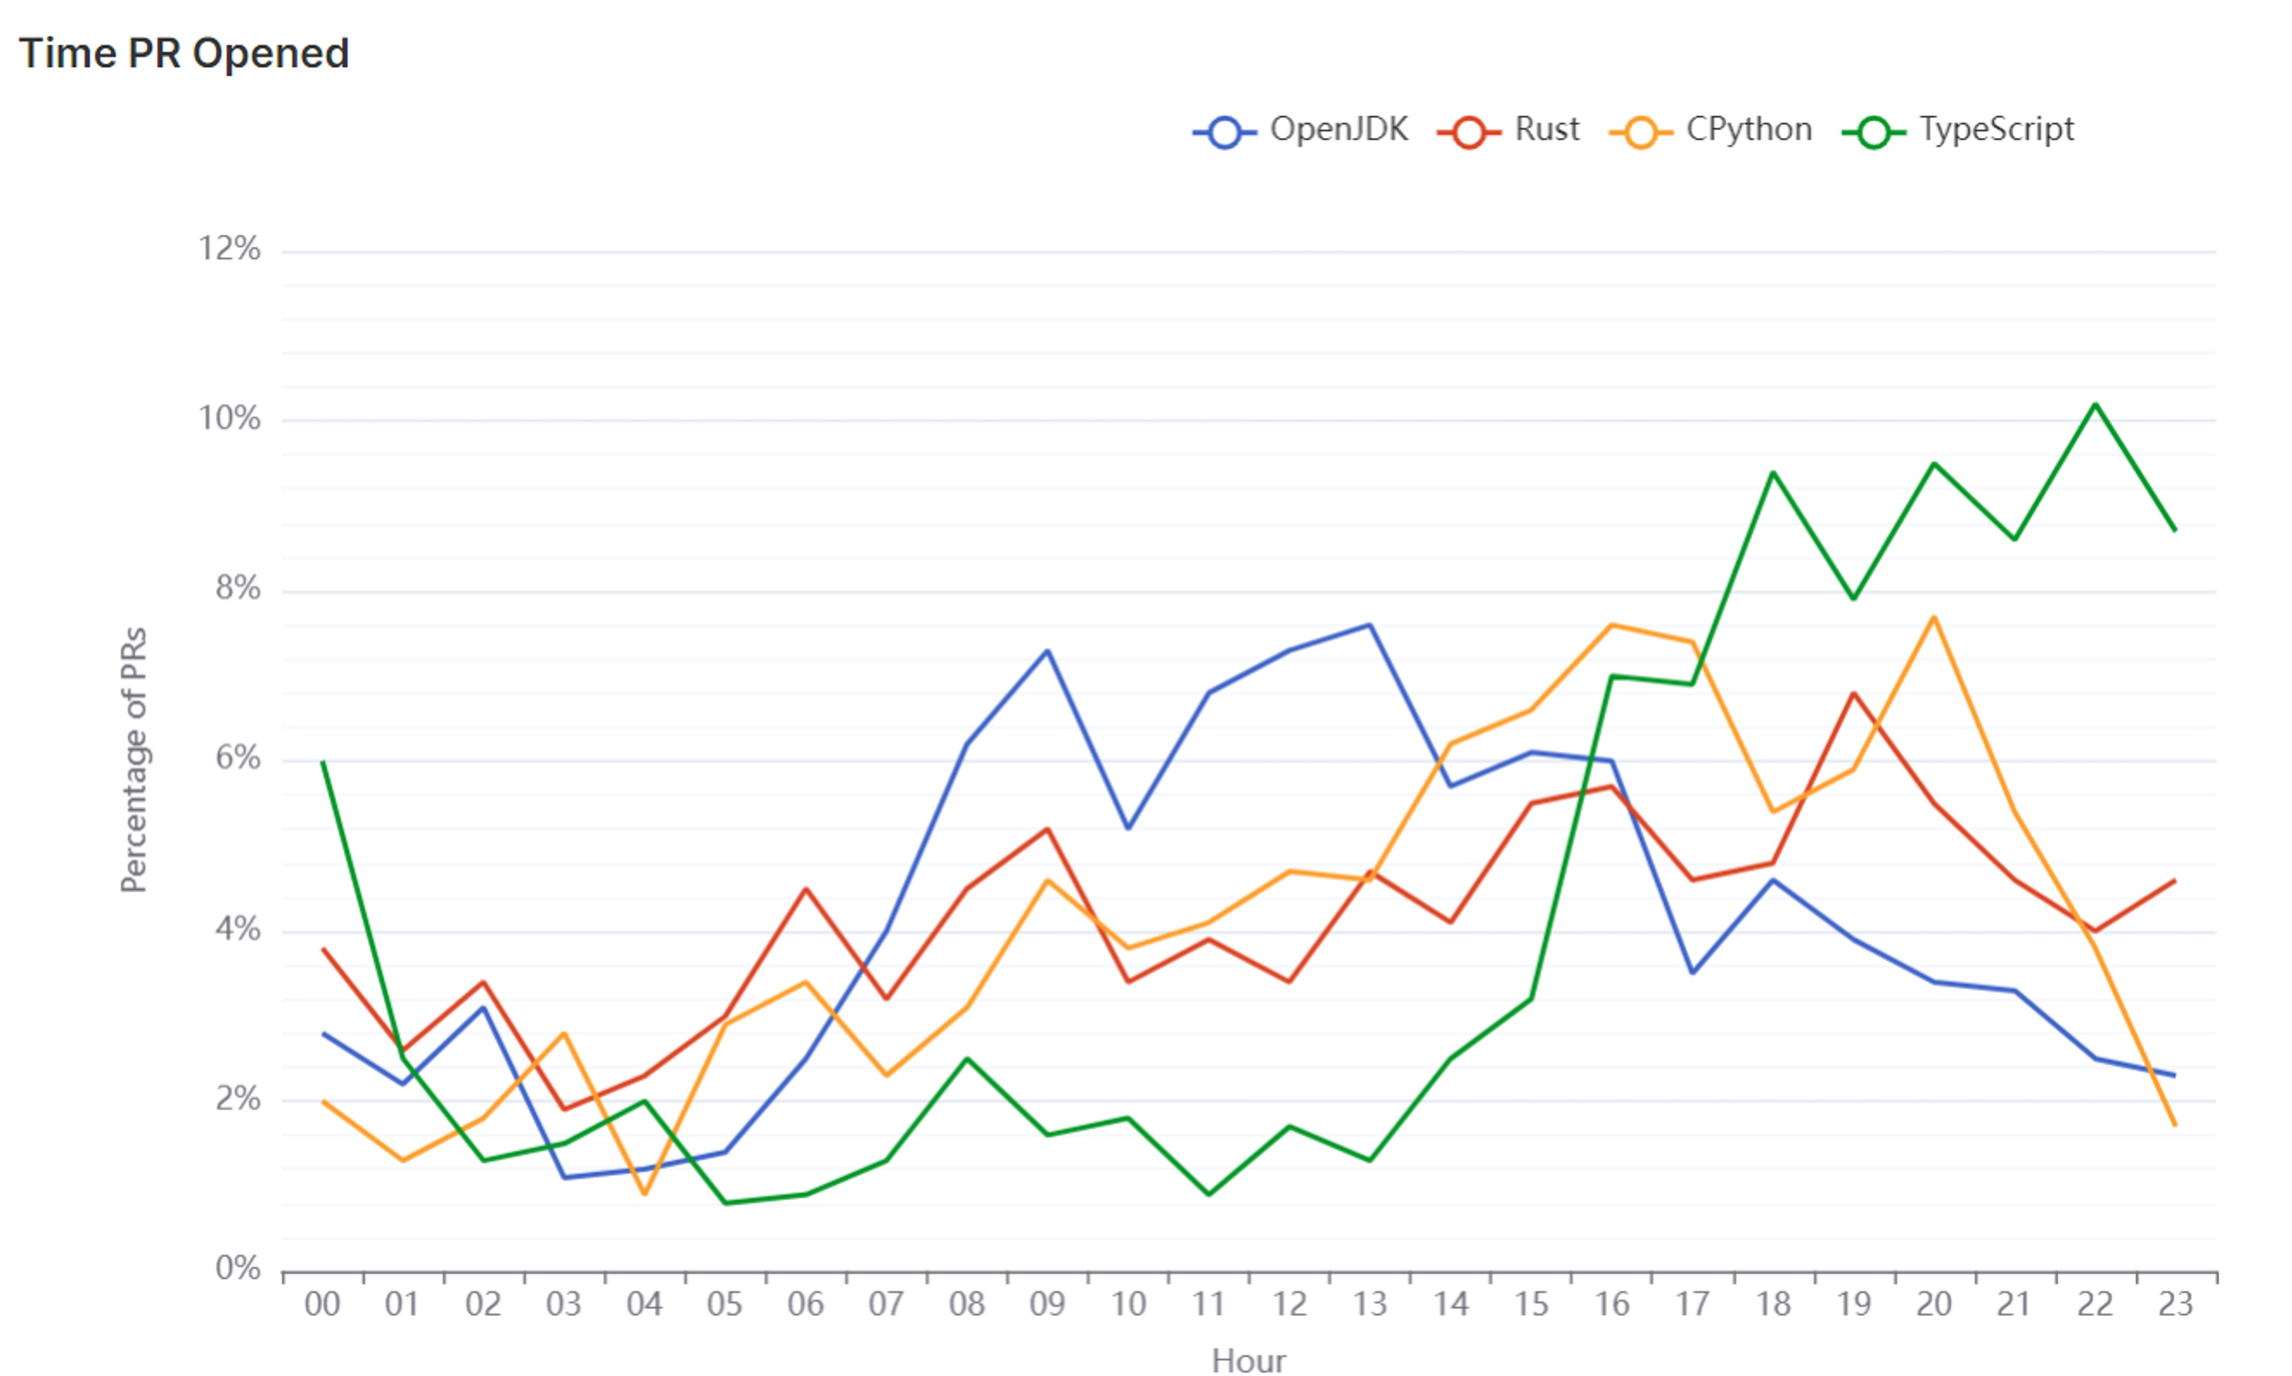
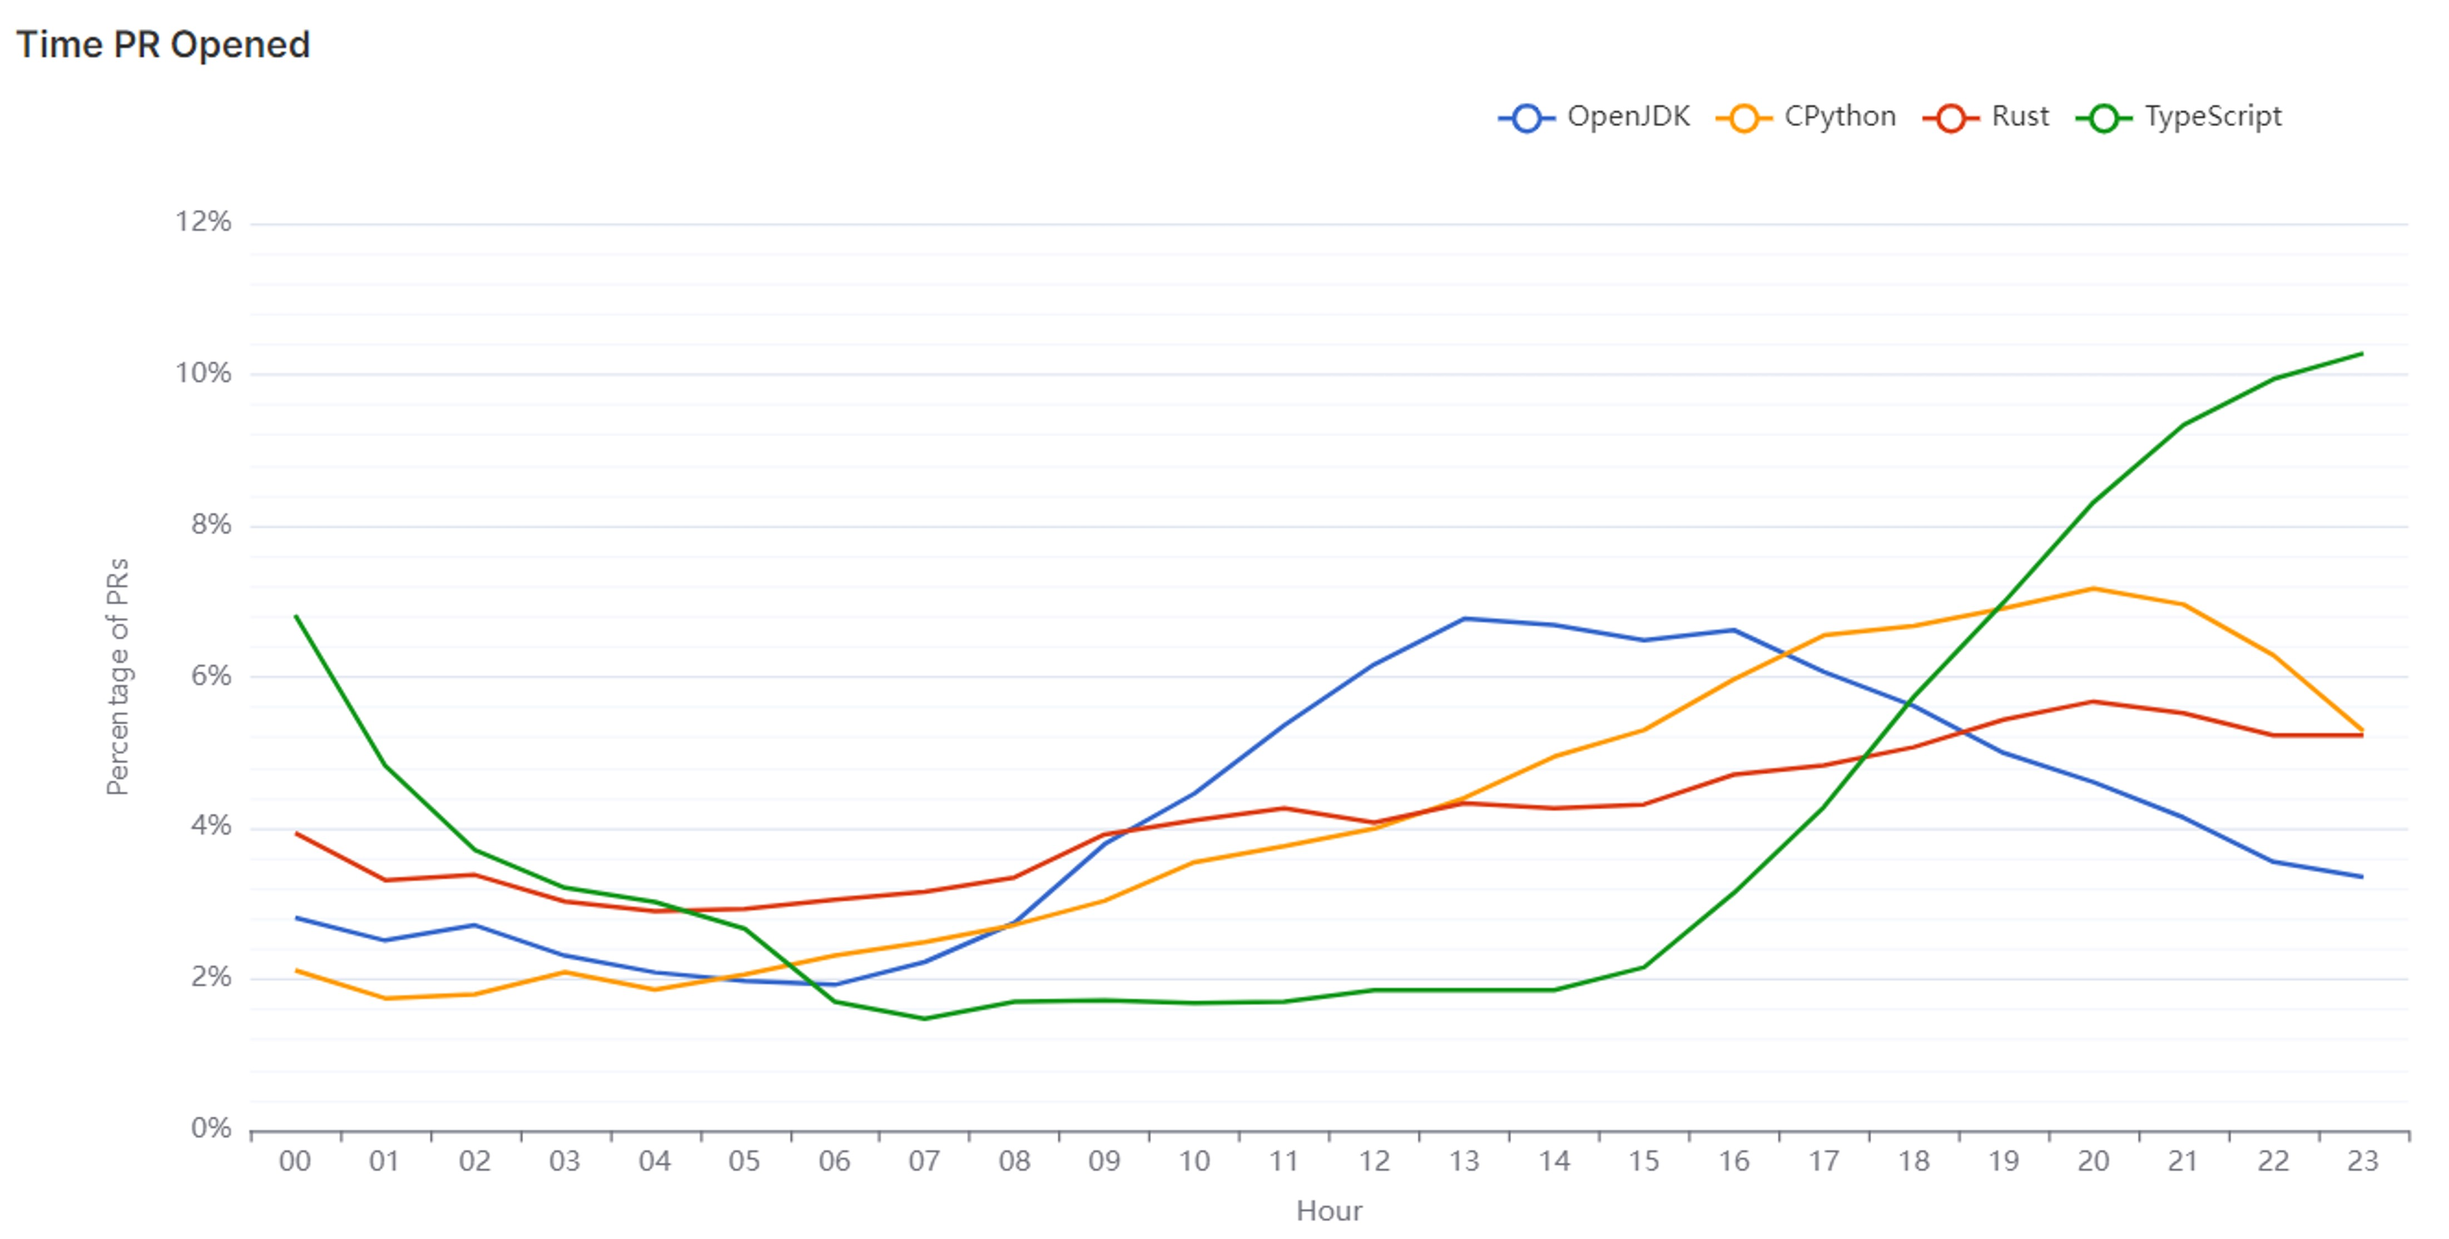
changes based on review feedback

diff --git a/_posts/2024-06-24-investigating-code-quality-from-pr-data.md b/_posts/2024-06-24-investigating-code-quality-from-pr-data.md
@@ -8,6 +8,8 @@ summary: Many of us are now using Generative AI to produce code, but what impact
 author: alaws
 ---
 
+When a developer wants to make changes to a code base, they raise a pull request (PR) which contains the proposed changes to the code and a written summary of the changes made. Other developers will then review this PR, leaving comments or suggestions, before ultimately deciding whether to approve the changes.
+
 PRs contain valuable data which can help us to get an insight into the process of writing code, and the teams involved. For example, we can use LLMs to analyse the tone of PR review comments - showing us the attitudes that reviewers have towards code.
 
 ![jpg]({{ site.github.url }}/alaws/assets/code-quality/code-quality-analysis-tone-per-day.jpg
@@ -23,23 +25,19 @@ Generative AI is everywhere, and software development is no exception. Tools suc
 
 The role of a software developer is multi-faceted, and writing code is just one part of the job. Therefore, if GenAI coding tools allow us to write code more quickly, but that code ultimately takes longer to review or is harder to maintain, is it really making us more productive?
 
-### So, what gives us an indication of code quality?
-
-When a developer wants to make changes to a code base, they raise a pull request (PR) which contains the proposed changes to the code and a written summary of the changes made. Other developers will then review this PR, leaving comments or suggestions, before ultimately deciding whether to approve the changes.
-
 PRs contain a huge amount of valuable data that can start to give us an idea of the code's quality. If the [CI/CD pipeline](https://about.gitlab.com/topics/ci-cd/) repeatedly fails, the code may not have been thoroughly tested or properly formatted. If a PR receives lots of review comments, it's likely that there are a number of changes that need to be made. Equally, if it takes weeks for a PR to be approved, it may be a reflection of the amount of work required to get the code to a point that the other developers are happy with it (either that, or the developers are just slow to submit their reviews...).
 
 ### Enter LLMs
 
-Although LLMs are able to write code, there are some common issues, or pain points, that are characteristic of AI-generated code. Things like not adhering to project conventions, not using functions that exist in other parts of the code base or writing code that is hard to read, are often clues that code may have been AI-generated, and are likely to be picked up in a review.
+LLMs (Large Language Models), are able to interpret and generate human language, and are even able to generate code.
 
-Therefore, what's written in comments is also a valuable source of information. For example, what do reviewers frequently suggest needs to be changed? Is a developer frustrated to make this suggestion (perhaps they've made the same suggestion several times already)? Are developers generally polite to their colleagues, but harsher on code that they suspect is AI-generated?
+Although LLMs can write code, there are some common issues, or pain points, that are characteristic of AI-generated code. Things like not adhering to project conventions or not using functions that exist in other parts of the code base, are often clues that code may have been AI-generated, and are likely to be picked up in a review.
 
-These are all questions we can begin to answer with the help of LLMs (Large Language Models), which are able to interpret and generate human language. Therefore, we can pass review comments, or even pieces of code, to an LLM and use them to start to answer these questions. Interestingly, this also gives us an insight into the dynamics within development teams, but more on that later.
+Therefore, what's written in comments is also a valuable source of information. For example, what do reviewers frequently suggest needs to be changed? Is a developer frustrated to make this suggestion (perhaps they've made the same suggestion several times already)? Are developers generally polite to their colleagues, but harsher on code that they suspect is AI-generated? We can pass review comments, or even pieces of code, to an LLM and use them to start to answer these questions. Interestingly, this also gives us an insight into the dynamics within development teams, but more on that later.
 
 ### Pulling this together into a tool
 
-Our team built a tool, to which we provide a GitHub or GitLab URL. It then scrapes the PRs that have been raised within that repository. We take the PR data and process it, to produce a range of different metrics which we have classified as either deterministic or AI. Our deterministic metrics use data such as the number of files changed, number of comments, requests for change, PR duration, and PR contributors. The AI metrics use LLMs to analyse things like comment tone and subject, and to detect disagreements within comment threads.
+Our team built a tool, to which we provide a GitHub or GitLab URL. It then scrapes the PRs that have been raised within that repository. We take the PR data and process it, to produce a range of different metrics which we can be classified as either deterministic or AI-powered. Our deterministic metrics use data such as the number of files changed, number of comments, requests for change, PR duration, and PR contributors. The AI-powered metrics use LLMs to analyse things like comment tone and subject, and to detect disagreements within comment threads.
 
 These metrics are then saved to a Parquet file, which can be exported to a [ClickHouse](https://clickhouse.com/clickhouse) database and imported into [Apache Superset](https://superset.apache.org/) to create a dashboard which allows us to visualise and explore the data captured.
 
@@ -49,39 +47,50 @@ To demonstrate our tool, we have used it to analyse 1000 PRs from four different
 
 ![jpg]({{ site.github.url }}/alaws/assets/code-quality/code-quality-analysis-date-combined.jpg "Number of PRs opened per month")
 
-Firstly, a note on PR creation dates. Our tool gathers the 1000 most recent PRs from each repository. For CPython and Rust, these were all created between May and June 2024. In contrast, with TypeScript, there has been a fairly consistent number of PRs opened each month since August 2023 . Remarkably, in May 2024, there were 602 PRs opened in the CPython repository, and 623 opened in Rust.
+Firstly, a note on PR creation dates. Our tool gathers the 1000 most recent PRs from each repository. For CPython and Rust, these were all created between May and June 2024. In contrast, with TypeScript, there has been a fairly consistent number of PRs opened each month since August 2023. Remarkably, in May 2024, there were 602 PRs opened in the CPython repository, and 623 opened in Rust.
 
 ![jpg]({{ site.github.url }}/alaws/assets/code-quality/code-quality-analysis-day-pr-opened.jpg
 "Percentage of PRs opened per day of the week")
 
-Looking at the percentage of PRs that were opened on each day per repository, we can clearly see that across all the languages, there are fewer opened on weekends. Developers working on OpenJDK must enjoy a good work-life balance, as only 6% of their PRs were opened on weekends.
+The date and times that PRs were opened can give us an indication as to whether the developers working on these repositories are doing it as part of a job or as a hobby. However, this relies on the assumption that who are contributing as part of their job are raising PRs during working hours (i.e. Monday to Friday, 9-5), and people who are contributing as a hobby are more likely to be making contributions outside of these hours.
+
+Looking at the percentage of PRs that were opened on each day per repository, we can clearly see that across all the languages, there are fewer opened on weekends, suggesting that the majority of developers contributing to these repositories are doing so as part of a job. If this is the case, the developers working on OpenJDK must particularly enjoy a good work-life balance, as only 6% of their PRs were opened on weekends.
 
 ![jpg]({{ site.github.url }}/alaws/assets/code-quality/code-quality-analysis-time-pr-opened.jpg "Percentage of PRs opened per hour of the day")
 
-From this chart, it seems at first glance like TypeScript developers are night owls. They open very few PRs before 1 pm and really come alive when when activity on the other repositories starts to trail off (around 4pm). However, when we investigate the [contributors](https://github.com/microsoft/TypeScript/graphs/contributors) further, we can see that the developers are located all over the world, with the majority being based in America. In our tool, if a timezone isn't returned from the GitHub API, we revert to UTC by default. Therefore, what appears to middle of the night in the UK is probably more likely to be during working day in America.
+Working on the assumption that developers are predominantly raising PRs during the working day, the times at which PRs are opened can give us an idea of the geographical distributions of the developers working on each repository. For example, we might expect that within a company, the team working on one project are co-located, so the PRs are raised at specific times within the day, depending on time zones.
+
+The above graph shows a rolling average of the percentage of PRs opened at each time, using a period of 3 hours. The graph produced from the Rust repository is flatter, suggesting that there is a more even geographical distribution of developers, compared to the other languages. CPython and OpenJDK seem to have some geographical distribution, with a modest concentration of their developers being based in America and Europe respectively. In contrast, Typescript seems to have a high concentration of developers based in America and Canada, which can be confirmed by exploring the [repository contributors](https://github.com/microsoft/TypeScript/graphs/contributors).
 
 ##### PR Duration and Review Time
+
+![jpg]({{ site.github.url }}/alaws/assets/code-quality/code-quality-analysis-pr-duration.jpg
+"PR Duration for each Repository")
+
+`PR Duration` is a measure of the time elapsed between a PR being opened, and it being either merged or closed. If a PR takes a long time to be approved, it could be that the reviewers are dubious that the proposed changes will be an improvement, or that they need some further work before the reviewers are happy. However, it may be the case that a PR sits in review for a period of time, before a reviewer first looks at it. For this reason, we added the additional measures of `Time to First Review` and `First Review to Last Commit`.
+
+Generally, TypeScript PRs spend much longer awaiting review than the other repositories. There could be many different reasons for this, including PRs containing lower quality code, reviewers being particularly strict or upholding high standards or simply reviewers being slow to submit their feedback.
 
 ![jpg]({{ site.github.url }}/alaws/assets/code-quality/code-quality-analysis-time-to-first-review-by-day.jpg
 "Time to First Review By Day")
 
-`PR Duration` is a measure of the time elapsed between a PR being opened, and it being either merged or closed. However, it may be the case that a PR sits in review for a period of time, before a reviewer first looks at it. For this reason, we added the additional measure of `Time to First Review`.
-
-Generally, TypeScript PRs spend much longer awaiting review than the other repositories. However, PRs opened on a Saturday (or possibly late on Friday due to timezones) spend significantly longer waiting for the initial review, presumably until work resumes on Monday morning. In contrast, TypeScript PRs opened on a Friday are reviewed very quickly, so the developers must be keen to clear their open PRs before the end of the working week.
+However, PRs opened on a Saturday (or possibly late on Friday due to timezones) spend significantly longer waiting for the initial review, presumably until work resumes on Monday. In contrast, TypeScript PRs opened on a Friday are reviewed very quickly, which could be a clue that new versions are released on a Friday, or maybe that developers like to get PRs closed before the end of the week.
 
 ##### Comment Subject, Tone and Disagreements
 
 ![jpg]({{ site.github.url }}/alaws/assets/code-quality/code-quality-analysis-LLM-pain-points.jpg
 "LLM Pain Points")
-Here, we asked an LLM to count the number of times reviewers picked up on issues that are common to AI-generated code. It's worth mentioning that all the pain points we identified were picked up to some degree in each of these repositories. Not adhering to project standards is the most frequently identified issue across all of the repositories and TypeScript reviewers seem particularly keen to ensure that everyone adheres to the language's best practices.
-
-![jpg]({{ site.github.url }}/alaws/assets/code-quality/code-quality-analysis-number-of-disagreements.jpg
-"Number of Disagreements in PR Comments")
-To calculate the number of disagreements, comment threads are passed into an LLM, which is then asked to count disagreements within that thread. The total number of disagreements across all comment threads on a PR is then calculated. The TypeScript repository is home to some keenly debated changes, as there are 5 PRs with over 30 disagreements in their comments. These PRs also have some of the highest numbers of comments, reaching up to 214 on one PR.
+Here, we asked an LLM to count the number of times reviewers picked up on issues that are common to AI-generated code, but are also indicators of code quality. It's worth mentioning that all the pain points we identified were picked up to some degree in each of these repositories. Not adhering to project standards is the most frequently identified issue across all of the repositories, followed (closely in the case of TypeScript) by adhering to the language's best practices.
 
 ![jpg]({{ site.github.url }}/alaws/assets/code-quality/code-quality-analysis-comment-tone.jpg
 "Tone Analysis of Review Comments")
 Here, an LLM was asked to take a comment and interpret which of the following tones described the comment: polite, neutral, satisfied, frustrated, excited, impolite, sad. Encouragingly, we see that the reviewers for these repositories are polite in the majority of their comments and are almost never sad. Developers contributing to OpenJDK appear to very rarely express any excitement towards their fellow developers' proposed changes, or maybe this reflects a lack of enthusiasm for reviewing PRs?
+
+![jpg]({{ site.github.url }}/alaws/assets/code-quality/code-quality-analysis-number-of-disagreements.jpg
+"Number of Disagreements in PR Comments")
+To calculate the number of disagreements, comment threads are passed into an LLM, which is then asked to count disagreements within that thread. The total number of disagreements across all comment threads on a PR is then calculated. The TypeScript repository is home to some keenly debated changes, as there are 5 PRs with over 30 disagreements in their comments. This is an indication that the developers may have conflicting ideas as to what needs to be changed, or may not be on the same page when it comes to project conventions and standards.
+
+These PRs also have some of the highest numbers of comments - reaching up to 214 on one PR. If a PR receives a high number of comments, it's likely that the reviewers have identified a number of changes they believe should be made to the proposed new code, perhaps suggesting that they aren't happy with the quality of the new code.
 
 ### Conclusion
 
